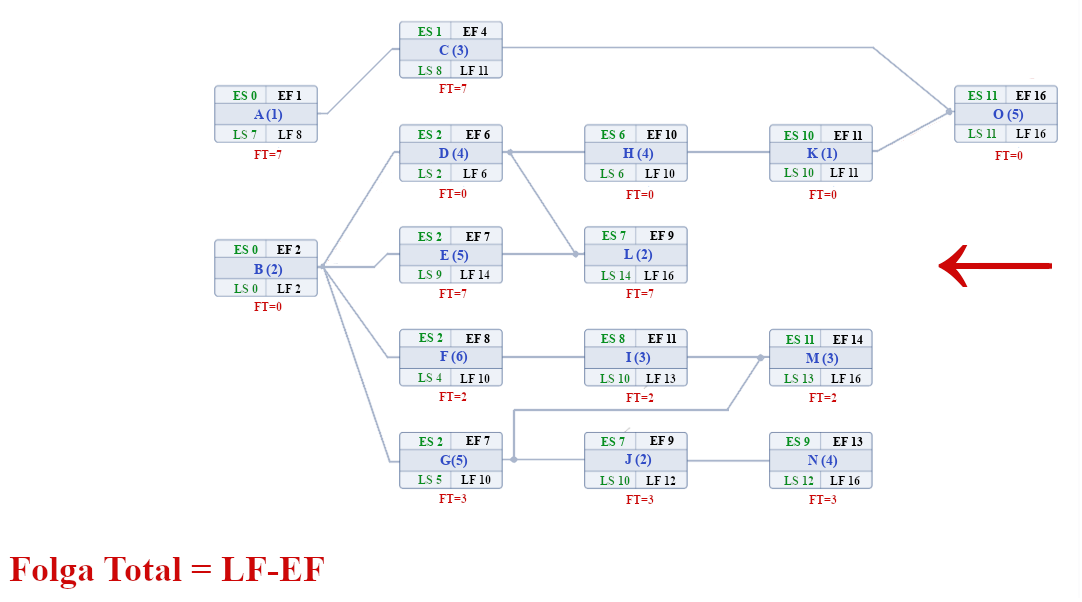
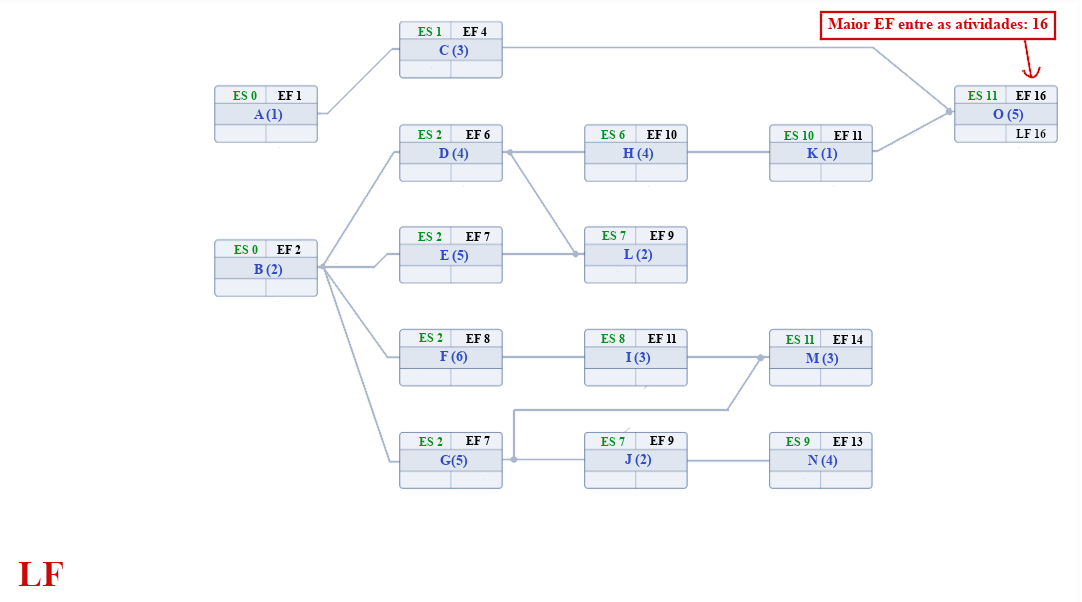
Atualizando Rede AON

diff --git a/exercicios/metodoaon_1.md b/exercicios/metodoaon_1.md
@@ -1,12 +1,45 @@
 # Rede AON - Exercício 01
 
+Para uma rede AON, as atividades são conectadas de acordo com a tabela abaixo, seguindo as precedências. As atividades A e B não tem atividades precedentes.
+
 ![alt text](image-36.png)
+
+Os Términos mais cedo (EF) são calculados através da soma de duas atividades: a antecedora e a sucessora. As atividades A e B não possuem atividades precedentes, então EF corresponde a sua duração. 
+
+As atividades que possuem mais de uma precedência, terão mais de um valor de EF, e a escolha é pelo maior valor obtido. 
+
+A direção das somas segue da esquerda para direita.
+
 ![alt text](image-37.png)
+
+O Início mais cedo (ES) para cada atividade é calculado pela diferença entre o valor de EF e sua duração. Independe a direção dos cálculos, pois depende apenas dos dados isolados em cada atividade. 
+
 ![alt text](image-38.png)
-![alt text](image-39.png)
-![alt text](image-40.png)
-![alt text](image-41.png)
-![alt text](image-42.png)
+
+O Término mais tarde (LF) tem como referência inicial o maior EF entre as atividades. A direção das diferenças é feita da direita para a esquerda.
+
+Note que as atividades da extremidade direita herdam o valor de LF maior.
+
+Ao realizar o cálculo das atividades antecessoras, subtraímos os valor da LF sucessora com a duração da atividade antecessora. 
+
+O critério de prevalência de mais de uma atividade é pelo menor valor obtido.
+
 ![alt text](image-43.png)
+![alt text](image-47.png)
+![alt text](image-48.png)
+
+O cálculo para Início mais tarde (LS) é obtido pela diferença do valor de LF pela duração da atividade. Independe a direção dos cálculos, pois depende apenas dos dados isolados em cada atividade. 
+![alt text](image-42.png)
+
+A Folga Total (FT) independe também da direção dos cálculos, já que necessitamos dos valores de LF e EF, em cada atividade.
+
+Note que temos uma sequência de atividades com FT=0, indicando o Caminho crítico da rede.
+
+![alt text](image-46.png)
+A Folga Livre (FL) depende apenas dova valores da ES sucessora e da EF antecessora. E a direção dos cálculos é da direita para a esquerda.
+
 ![alt text](image-44.png)
+
+Finalmente temos a rede AON completa, com todos os parâmetros calculados. Em vermelho o caminho crítico é destacado, enquanto que os demais são caminhos não críticos.
+
 ![alt text](image-45.png)

diff --git a/teoria/planejamento_projeto.md b/teoria/planejamento_projeto.md
@@ -45,10 +45,8 @@ o projeto. (Prazo determinístico, sabe o tempo)
 * Caminho Crítico: O caminho mais longo do projeto com a menor quantidade de folga,
 determinando o menor tempo para concluir o projeto.
 * Folga: A quantidade de tempo que uma atividade pode ser atrasada sem atrasar o projeto.
-* Início Mais Cedo (ES) e Término Mais Cedo (EF): Os horários mais cedo que uma atividade
-pode começar e terminar.
-* Início Mais Tarde (LS) e Término Mais Tarde (LF): Os horários mais tarde que uma atividade
-pode começar e terminar sem atrasar o projeto.
+* Início Mais Cedo (Early Start - ES) e Término Mais Cedo (Early Finish - EF): Os horários mais cedo que uma atividade pode começar e terminar.
+* Início Mais Tarde (LS) e Término Mais Tarde (LF): Os horários mais tarde que uma atividade pode começar e terminar sem atrasar o projeto.
 
 </ul>
 * Aplicação: Adequado para projetos com atividades e durações bem definidas, como projetos de
